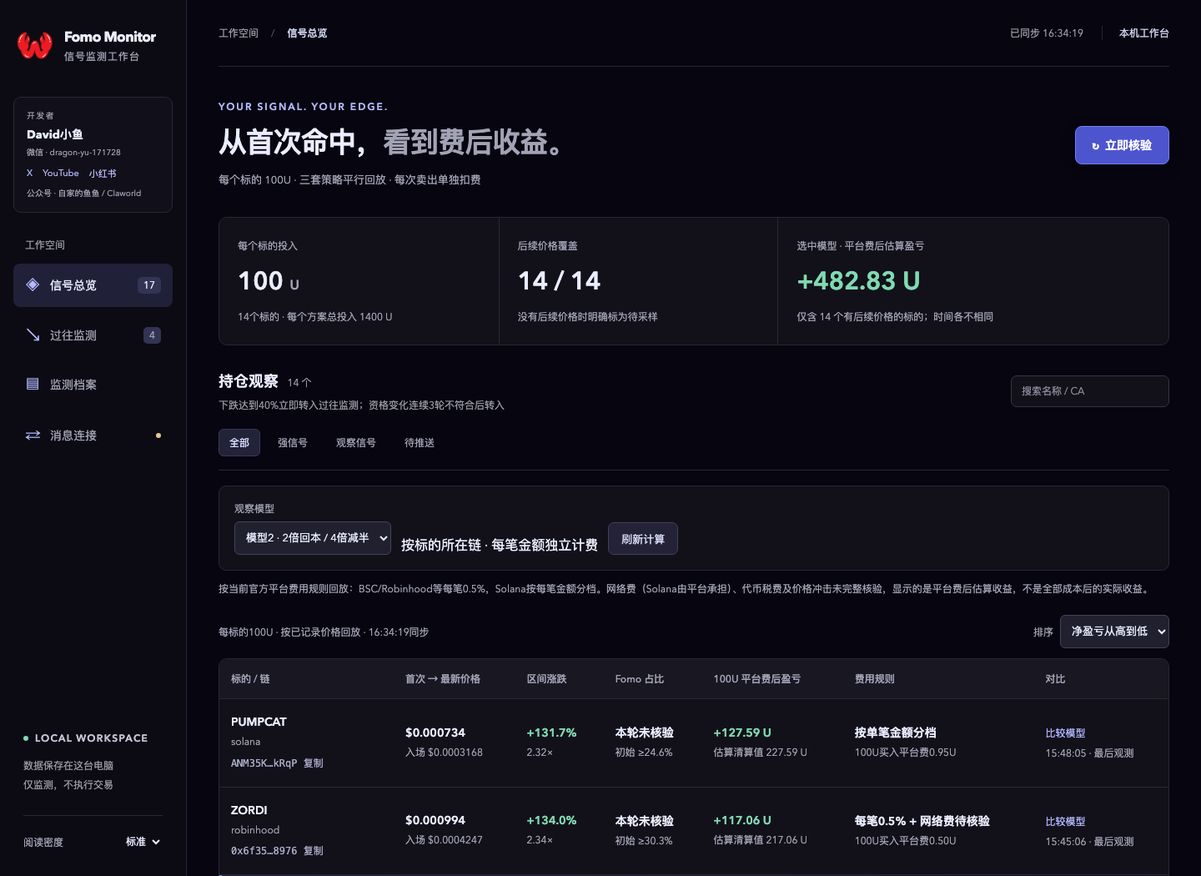
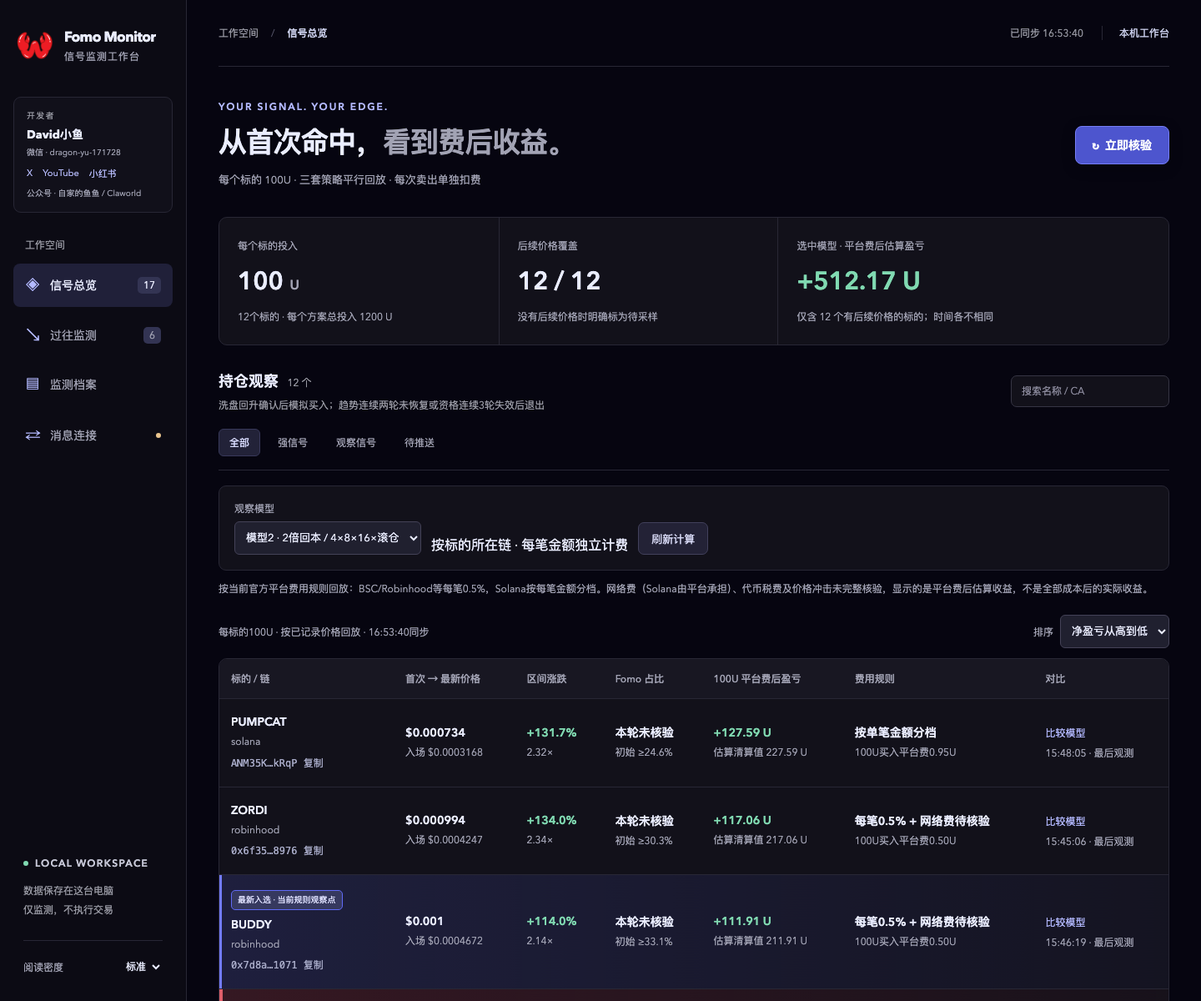
Adopt washout entry and rolling profit model

diff --git a/monitor/static/portfolio.js b/monitor/static/portfolio.js
@@ -1,6 +1,6 @@
 /* Retrospective comparison of recorded prices only. No trading actions. */
 let portfolioData=null,portfolioKey='',portfolioBusy=false,portfolioOpen=new Set();
-const modelNames={hold:'模型1 · Fomo 留存持有',recover2:'模型2 · 2倍回本 / 4倍减半',runner25:'模型3A · 2.5倍净收100U',runner25_110:'模型3B · 2.5倍净收110U'};
+const modelNames={hold:'模型1 · Fomo 留存持有',recover2:'模型2 · 2倍回本 / 4×8×16×滚仓',runner25:'模型3A · 2.5倍净收100U',runner25_110:'模型3B · 2.5倍净收110U'};
 const fmtU=n=>Number.isFinite(n)?n.toFixed(2)+' U':'—';
 const fmtPrice=n=>Number.isFinite(n)?'$'+n.toLocaleString('en-US',{maximumSignificantDigits:6}):'—';
 const fmtPct=n=>Number.isFinite(n)?(n>0?'+':'')+n.toFixed(1)+'%':'—';
@@ -67,22 +67,21 @@ function priceCurve(t){
  const root=el('div','history-chart');
  if(!prices.length)return root;
  const models=t.simulation?.models||[],best=models.reduce((winner,m)=>!winner||m.net_value>winner.net_value?m:winner,null);
- const clearReasons=new Set(['stop_loss','fomo_below_15','fomo_retention']);
- const actionNames={recover_principal:'2倍回本卖出',halve_at_4x:'4倍卖出剩余一半',runner_recover:'2.5倍目标回收',stop_loss:'跌幅20%强制止损',fomo_below_15:'Fomo低于15%清仓',fomo_retention:'Fomo留存条件清仓'};
+ const clearReasons=new Set(['trend_break','stop_loss','fomo_below_15','fomo_retention']);
+ const actionNames={recover_principal:'2倍回本卖出',halve_at_multiple:'倍数阶梯卖出剩余一半',runner_recover:'2.5倍目标回收',trend_break:'上升趋势确认失效清仓',stop_loss:'旧规则止损清仓',fomo_below_15:'Fomo低于15%清仓',fomo_retention:'Fomo留存条件清仓'};
  const markers=[];
  if(best){
   for(const tx of best.trades||[]){
    const kind=tx.type==='buy'?'buy':clearReasons.has(tx.reason)?'clear':'sell';
-   markers.push({kind,time:tx.observed_at||tx.time,price:tx.price,title:tx.type==='buy'?'首次模拟买入':actionNames[tx.reason]||'分批模拟卖出',tx});
+   const title=tx.reason==='halve_at_multiple'?`${tx.target_multiple}倍卖出剩余一半`:tx.type==='buy'?'洗盘回升确认买入':actionNames[tx.reason]||'分批模拟卖出';markers.push({kind,time:tx.observed_at||tx.time,price:tx.price,title,tx});
   }
  }
  if(t.archive?.archived_at)markers.push({kind:'archive',time:t.archive.archived_at,price:Number.isFinite(t.archive.trigger_price)?t.archive.trigger_price:t.latest.price,title:'退出监测'});
- const markerPrices=markers.map(m=>m.price).filter(Number.isFinite),low=Math.min(...prices,...markerPrices,t.entry.price*.80),high=Math.max(...prices,...markerPrices,t.entry.price),span=high-low||high*.01||1;
+ const markerPrices=markers.map(m=>m.price).filter(Number.isFinite),low=Math.min(...prices,...markerPrices),high=Math.max(...prices,...markerPrices,t.entry.price),span=high-low||high*.01||1;
  const sampleTimes=samples.map(s=>new Date(s.observed_at).getTime()),start=Math.min(...sampleTimes),end=Math.max(...sampleTimes),timeSpan=end-start;
  const xTime=time=>{const ms=new Date(time).getTime();return p+(w-p*2)*(timeSpan&&Number.isFinite(ms)?Math.max(0,Math.min(1,(ms-start)/timeSpan)):.5);};
  const x=(s,i)=>timeSpan?xTime(s.observed_at):p+(w-p*2)*(samples.length===1?.5:i/(samples.length-1)),y=v=>p+(h-p*2)*(high-v)/span;
  const svg=document.createElementNS('http://www.w3.org/2000/svg','svg');svg.setAttribute('viewBox',`0 0 ${w} ${h}`);svg.setAttribute('role','group');svg.setAttribute('aria-label',t.name+' 历史价格曲线与交易节点');
- const stop=document.createElementNS(svg.namespaceURI,'line');for(const [k,v] of Object.entries({x1:p,x2:w-p,y1:y(t.entry.price*.80),y2:y(t.entry.price*.80)}))stop.setAttribute(k,v);stop.setAttribute('class','stop-line');svg.append(stop);
  const path=document.createElementNS(svg.namespaceURI,'polyline');path.setAttribute('points',samples.map((s,i)=>x(s,i)+','+y(s.price)).join(' '));path.setAttribute('class','price-line');svg.append(path);
  const note=el('div','marker-note');note.hidden=true;
  const showMarker=m=>{
@@ -105,7 +104,7 @@ function renderHistory(){
  if(!rows.length){root.append(el('div','empty','暂无退出主清单的标的'));return;}
  for(const t of rows){
   const card=el('article','history-card'),head=el('div','history-head'),identity=el('div');identity.append(el('h2','',t.name),el('p','',t.chain+' · '+t.ca));
-  const change=t.archive.trigger_change_percent;head.append(identity,el('span','history-reason',t.archive.kind==='price_stop'?'20%止损 '+fmtPct(change):'资格退出'));card.append(head,priceCurve(t));
+  const change=t.archive.trigger_change_percent,archiveLabel=t.archive.kind==='trend_break'?'趋势退出 '+fmtPct(change):t.archive.kind==='price_stop'?'旧止损 '+fmtPct(change):'资格退出';head.append(identity,el('span','history-reason',archiveLabel));card.append(head,priceCurve(t));
   const note=el('p','history-note',t.archive.reason+' · '+new Date(t.archive.archived_at).toLocaleString('zh-CN')+' · 记录与模拟数据均保留');card.append(note);
   const detail=el('details','history-detail');detail.append(el('summary','','查看完整模拟账本与观测记录'),tokenDetail(t));card.append(detail);root.append(card);
  }
@@ -117,7 +116,7 @@ function tokenDetail(t){
  for(const m of t.simulation.models){
   const card=el('section','model-box');card.append(el('h4','',modelNames[m.id]||m.id),el('strong',m.pnl>=0?'profit':'loss',signedU(m.pnl)));
   for(const [label,value] of [['已回收净现金',fmtU(m.cash)],['剩余代币',m.remaining_percent.toFixed(2)+'%'],['剩余仓位市值',fmtU(m.remaining_gross_value)],['已扣平台费用',fmtU(m.paid_fees)],['剩余仓位预估平台费',fmtU(m.liquidation_fee)],['平台费后估算总值',fmtU(m.net_value)]]){const line=el('div','model-line');line.append(el('span','',label),el('b','',value));card.append(line);}
-  card.append(el('p','fee-explainer',({stop_loss:'已按20%强制止损线清仓退出',fomo_below_15:'Fomo 确认低于15%，已按当次观测价清仓全部',fomo_retention:'连续两次留存条件成立，已退出',principal_recovered_then_halved:'已回本，并在后续4倍观测减半',principal_recovered:'已净收回100U，等待后续4倍',principal_recovery_unreachable:'费用过高，当前仓位不足以净回本',runner_recover_100:'已净收100U，剩余仓位继续持有',runner_recover_110:'已净收110U，剩余仓位继续持有',runner_recovery_unreachable:'费用过高，当前仓位不足以完成回收',no_2x_observed:'尚未观测到2倍',no_2_5x_observed:'尚未观测到2.5倍',no_exit_trigger:'尚未满足退出条件'})[m.reason]||m.status));
+  card.append(el('p','fee-explainer',({trend_break:'连续两个确认轮次收低，趋势未恢复，已清仓',stop_loss:'旧规则止损结果已冻结保留',fomo_below_15:'Fomo 确认低于15%，已按当次观测价清仓全部',fomo_retention:'连续两次留存条件成立，已退出',principal_recovered_rolling:`已回本并完成${m.halving_count||0}次减半，下一档${m.next_halving_multiple||'—'}倍`,principal_recovered:'已净收回100U，等待后续4倍',principal_recovery_unreachable:'费用过高，当前仓位不足以净回本',runner_recover_100:'已净收100U，剩余仓位继续持有',runner_recover_110:'已净收110U，剩余仓位继续持有',runner_recovery_unreachable:'费用过高，当前仓位不足以完成回收',no_2x_observed:'尚未观测到2倍',no_2_5x_observed:'尚未观测到2.5倍',no_exit_trigger:'尚未满足退出条件'})[m.reason]||m.status));
   const trades=el('details');trades.append(el('summary','', '逐笔模拟交易 · '+m.trades.length+' 笔'));
   for(const tx of m.trades){const p=el('div','trade-item');p.textContent=(tx.type==='buy'?'买入':tx.type==='sell'?'卖出':tx.type)+' · '+tx.time+'\n价格 '+fmtPrice(tx.price)+' / 平台费 '+fmtU(tx.fee)+'（'+(tx.effective_fee_rate*100).toFixed(3)+'%）'+' / 净额 '+fmtU(tx.net);trades.append(p);}card.append(trades);grid.append(card);
  }

diff --git a/monitor/static/index.html b/monitor/static/index.html
@@ -13,7 +13,7 @@
 <div class="page-heading"><div><div class="eyebrow">YOUR SIGNAL. YOUR EDGE.</div><h1>从首次命中，<span>看到费后收益。</span></h1><p>每个标的 100U · 三套策略平行回放 · 每次卖出单独扣费</p></div><button id="refresh" class="primary refresh-button">↻&nbsp; 立即核验</button></div>
 <section class="portfolio-summary"><article><label>每个标的投入</label><strong>100 <small>U</small></strong><p id="portfolioInvested">等待载入基线</p></article><article><label>后续价格覆盖</label><strong id="portfolioCoverage">—</strong><p>没有后续价格时明确标为待采样</p></article><article><label>选中模型 · 平台费后估算盈亏</label><strong id="portfolioPnl">—</strong><p id="portfolioScope">不含仅有入场样本的标的</p></article></section>
 <div class="metrics"><article><span class="metric-label">本地已记录命中</span><strong id="hitCount">—</strong><small>最近 100 条事件中的新信号</small></article><article><span class="metric-label">等待推送</span><strong id="pending">—</strong><small><span id="sent">0</span> 条已完成全部通道推送</small></article><article class="channel-metric"><span class="metric-label">消息通道</span><strong id="deliveryStatus">等待配置</strong><small id="deliveryDetail">飞书与 Telegram 可同时推送</small><button class="text-button" data-view="connect">管理连接 ↗</button></article></div>
-<div class="overview-grid"><div class="signal-area"><div class="section-head"><div><h2>持仓观察 <span id="portfolioCount"></span></h2><p>相对模拟买入价下跌20%立即止损；资格变化连续3轮不符合后转入</p></div><input id="search" type="search" aria-label="搜索名称或合约" placeholder="搜索名称 / CA"></div><div class="filter-tabs" role="group" aria-label="筛选信号"><button class="selected" data-filter="all">全部</button><button data-filter="strong">强信号</button><button data-filter="watch">观察信号</button><button data-filter="pending">待推送</button></div><section class="model-controls"><label>观察模型<select id="modelSelect"><option value="hold">模型1 · Fomo 留存持有</option><option value="recover2" selected>模型2 · 2倍回本 / 4倍减半</option><option value="runner25">模型3A · 2.5倍净收100U</option><option value="runner25_110">模型3B · 2.5倍净收110U</option></select></label><span>按标的所在链 · 每笔金额独立计费</span><input id="buyFee" value="6" type="hidden"><input id="sellFee" value="6" type="hidden"><button id="recalculate" class="secondary">刷新计算</button></section>
+<div class="overview-grid"><div class="signal-area"><div class="section-head"><div><h2>持仓观察 <span id="portfolioCount"></span></h2><p>洗盘回升确认后模拟买入；趋势连续两轮未恢复或资格连续3轮失效后退出</p></div><input id="search" type="search" aria-label="搜索名称或合约" placeholder="搜索名称 / CA"></div><div class="filter-tabs" role="group" aria-label="筛选信号"><button class="selected" data-filter="all">全部</button><button data-filter="strong">强信号</button><button data-filter="watch">观察信号</button><button data-filter="pending">待推送</button></div><section class="model-controls"><label>观察模型<select id="modelSelect"><option value="hold">模型1 · Fomo 留存持有</option><option value="recover2" selected>模型2 · 2倍回本 / 4×8×16×滚仓</option><option value="runner25">模型3A · 2.5倍净收100U</option><option value="runner25_110">模型3B · 2.5倍净收110U</option></select></label><span>按标的所在链 · 每笔金额独立计费</span><input id="buyFee" value="6" type="hidden"><input id="sellFee" value="6" type="hidden"><button id="recalculate" class="secondary">刷新计算</button></section>
 <p class="fee-explainer">按当前官方平台费用规则回放：BSC/Robinhood等每笔0.5%，Solana按每笔金额分档。网络费（Solana由平台承担）、代币税费及价格冲击未完整核验，显示的是平台费后估算收益，不是全部成本后的实际收益。</p>
 <div class="portfolio-toolbar"><span id="portfolioStatus">正在读取观测账本…</span><label>排序 <select id="portfolioSort"><option value="profit_desc">净盈亏从高到低</option><option value="profit_asc">净盈亏从低到高</option><option value="recent">最新采样</option><option value="waiting">待采样优先</option></select></label></div>
 <div id="portfolioTable"></div><p class="fee-explainer">点击一行「比较模型」查看四个分支的收益、剩余仓位和逐笔买卖费用。模型3的两个分支是对照方案，不重复计入投入。</p>

diff --git a/monitor/simulation.py b/monitor/simulation.py
@@ -17,7 +17,6 @@ from typing import Any, Dict, List, Optional, Tuple
 
 _RATIO_EXIT = 15.0
 _HOLDER_RETENTION = 0.20
-_STOP_MULTIPLE = 0.80
 _RECOVER_MULTIPLE = 2.0
 _RUNNER_MULTIPLE = 2.5
 _HALF_MULTIPLE = 4.0
@@ -228,11 +227,15 @@ class _Ledger:
         self._peak_holders: Optional[float] = None
         self._holder_streak = 0
         self._ratio_streak = 0
+        self._previous_confirmed_price: Optional[float] = None
+        self._lower_price_streak = 0
 
         # Recover2 state.
         self._principal_recovered = False
         self._recovery_index: Optional[int] = None
         self._half_sold = False
+        self._halving_count = 0
+        self._next_halving_multiple = _HALF_MULTIPLE
 
         # Drawdown starts at the post-buy, hypothetical-liquidation value.
         initial_net = self._net_value(entry.price)
@@ -253,16 +256,19 @@ class _Ledger:
             self.trigger_observed_at = sample.observed_at
             self.trigger_price = sample.price
             return True
-        if sample.price > self.entry_price * _STOP_MULTIPLE:
-            return False
-        if self.units > 0:
-            self._sell(sample, self.units, "stop_loss")
-        self.stop_triggered = True
-        self.terminal = True
-        self.terminal_reason = "stop_loss"
-        self.trigger_observed_at = sample.observed_at
-        self.trigger_price = sample.price
-        return True
+        if sample.confirmation:
+            if self._previous_confirmed_price is not None:
+                self._lower_price_streak = self._lower_price_streak + 1 if sample.price < self._previous_confirmed_price else 0
+            self._previous_confirmed_price = sample.price
+            if self._lower_price_streak >= 2:
+                if self.units > 0:
+                    self._sell(sample, self.units, "trend_break")
+                self.terminal = True
+                self.terminal_reason = "trend_break"
+                self.trigger_observed_at = sample.observed_at
+                self.trigger_price = sample.price
+                return True
+        return False
 
     def _sell(self, sample: _Sample, tokens: float, reason: str) -> float:
         if tokens <= 0 or self.units <= 0:
@@ -395,10 +401,14 @@ class _Ledger:
 
         # Even if the recovery observation leaps directly beyond 4x, the 4x
         # sale is required on a later observed sample.
-        if not self._half_sold and self._recovery_index is not None:
-            if index > self._recovery_index and multiple >= _HALF_MULTIPLE:
-                self._sell_fraction_of_remaining(sample, 0.5, "halve_at_4x")
+        if self._recovery_index is not None and index > self._recovery_index:
+            if multiple >= self._next_halving_multiple:
+                target=self._next_halving_multiple
+                self._sell_fraction_of_remaining(sample, 0.5, "halve_at_multiple")
+                self.trades[-1]["target_multiple"]=target
+                self._halving_count += 1
                 self._half_sold = True
+                self._next_halving_multiple *= 2
 
     def _process_runner(self, sample: _Sample) -> None:
         if self.terminal or self._stop_if_needed(sample):
@@ -435,9 +445,9 @@ class _Ledger:
             self._max_drawdown / self._peak_net_value * 100.0
             if self._peak_net_value > 0 else 0.0
         )
-        if self.stop_triggered:
-            status = "stopped"
-            reason = "stop_loss"
+        if self.terminal_reason == "trend_break":
+            status = "exited"
+            reason = "trend_break"
         elif self.terminal_reason == "fomo_below_15":
             status = "exited"
             reason = "fomo_below_15"
@@ -447,7 +457,7 @@ class _Ledger:
         elif self.kind == "recover2":
             if self._half_sold:
                 status = "running"
-                reason = "principal_recovered_then_halved"
+                reason = "principal_recovered_rolling"
             elif self._principal_recovered:
                 status = "running"
                 reason = "principal_recovered"
@@ -515,6 +525,8 @@ class _Ledger:
             result.update({
                 "principal_recovered": self._principal_recovered,
                 "half_sold": self._half_sold,
+                "halving_count": self._halving_count,
+                "next_halving_multiple": self._next_halving_multiple,
                 "target_net": self.principal,
             })
         elif self.kind == "runner":

diff --git a/monitor/test_simulation.py b/monitor/test_simulation.py
@@ -57,20 +57,10 @@ class SimulationTests(unittest.TestCase):
                     sample("2026-09-06T00:01:00+00:00", gross / initial_units),
                 ], fee_schedule="solana")
                 model = self.model(result, "hold")
-                if gross / initial_units <= entry_price * 0.8:
-                    trade = model["trades"][1]
-                    self.assertAlmostEqual(trade["gross"], gross)
-                    self.assertAlmostEqual(trade["fee"], expected_fee)
-                    self.assertAlmostEqual(trade["net"], gross - expected_fee)
-                    self.assertAlmostEqual(
-                        trade["effective_fee_rate"], expected_fee / gross
-                    )
-                else:
-                    self.assertAlmostEqual(model["remaining_gross_value"], gross)
-                    self.assertAlmostEqual(
-                        model["hypothetical_remaining_liquidation_fee"],
-                        expected_fee,
-                    )
+                self.assertAlmostEqual(model["remaining_gross_value"], gross)
+                self.assertAlmostEqual(
+                    model["hypothetical_remaining_liquidation_fee"], expected_fee,
+                )
 
         tiny = engine_simulate(
             [sample("2026-09-06T00:00:00+00:00", 10.0)],
@@ -166,6 +156,20 @@ class SimulationTests(unittest.TestCase):
         self.assertEqual(len(staged_model["trades"]), 3)
         self.assertTrue(staged_model["half_sold"])
 
+    def test_recover2_halves_again_at_each_observed_doubling(self):
+        result = simulate([
+            sample("2026-09-06T00:00:00+00:00", 10.0),
+            sample("2026-09-06T00:01:00+00:00", 20.0),
+            sample("2026-09-06T00:02:00+00:00", 40.0),
+            sample("2026-09-06T00:03:00+00:00", 80.0),
+            sample("2026-09-06T00:04:00+00:00", 160.0),
+        ])
+        model = self.model(result, "recover2")
+        sells=[t for t in model["trades"] if t["type"]=="sell"]
+        self.assertEqual([t.get("target_multiple") for t in sells[1:]],[4.0,8.0,16.0])
+        self.assertEqual(model["halving_count"],3)
+        self.assertEqual(model["next_halving_multiple"],32.0)
+
     def test_runner_100_and_110_fractions(self):
         result = simulate([
             sample("2026-09-06T00:00:00+00:00", 10.0),
@@ -218,24 +222,28 @@ class SimulationTests(unittest.TestCase):
         self.assertEqual(model["status"], "exited")
         self.assertAlmostEqual(model["trades"][1]["price"], 14.0)
 
-    def test_twenty_percent_stop_is_inclusive_and_terminal(self):
+    def test_two_confirmed_lower_prices_exit_trend_models(self):
         result = simulate([
             sample("2026-09-06T00:00:00+00:00", 10.0),
-            sample("2026-09-06T00:01:00+00:00", 8.1),
-            sample("2026-09-06T00:02:00+00:00", 8.0),
-            sample("2026-09-06T00:03:00+00:00", 40.0),
+            sample("2026-09-06T00:01:00+00:00", 6.0),
+            sample("2026-09-06T00:02:00+00:00", 7.0),
+            sample("2026-09-06T00:03:00+00:00", 6.5),
+            sample("2026-09-06T00:04:00+00:00", 6.0),
+            sample("2026-09-06T00:05:00+00:00", 40.0),
         ])
         for model in result["models"]:
-            self.assertEqual(model["status"], "stopped")
+            self.assertEqual(model["status"], "exited")
             self.assertTrue(model["terminal"])
             self.assertEqual(len(model["trades"]), 2)
-            self.assertAlmostEqual(model["trades"][1]["price"], 8.0)
+            self.assertEqual(model["trades"][1]["reason"], "trend_break")
+            self.assertAlmostEqual(model["trades"][1]["price"], 6.0)
             self.assertAlmostEqual(model["remaining_units"], 0.0)
-        at_boundary = simulate([
+        recovered = simulate([
             sample("2026-09-06T00:00:00+00:00", 10.0),
-            sample("2026-09-06T00:01:00+00:00", 8.1),
+            sample("2026-09-06T00:01:00+00:00", 5.0),
+            sample("2026-09-06T00:02:00+00:00", 11.0),
         ])
-        self.assertNotEqual(self.model(at_boundary, "hold")["status"], "stopped")
+        self.assertFalse(self.model(recovered, "hold")["terminal"])
 
     def test_confirmed_fomo_below_fifteen_exits_every_model_immediately(self):
         result = simulate([

diff --git a/monitor/portfolio.py b/monitor/portfolio.py
@@ -121,13 +121,15 @@ def watch_state(observations):
 
 def archive_state(meta, observations, watch):
     """Return the first terminal archive trigger while preserving every observation."""
-    stop_price=meta['price']*.80
-    breach=next((sample for sample in observations if sample['price']<=stop_price),None)
-    if breach:
-        decline=(breach['price']/meta['price']-1)*100
-        return {'archived':True,'reason':'相对首次合格价下跌达到20%',
-                'kind':'price_stop','archived_at':breach['observed_at'],
-                'trigger_price':breach['price'],'trigger_change_percent':decline}
+    confirmed=[sample for sample in observations if sample.get('confirmation')]
+    lower_streak=0
+    for previous,current in zip(confirmed,confirmed[1:]):
+        lower_streak=lower_streak+1 if current['price']<previous['price'] else 0
+        if lower_streak>=2:
+            decline=(current['price']/meta['price']-1)*100
+            return {'archived':True,'reason':'连续2个确认轮次收低，上升趋势未恢复',
+                    'kind':'trend_break','archived_at':current['observed_at'],
+                    'trigger_price':current['price'],'trigger_change_percent':decline}
     if watch['status']=='removed':
         return {'archived':True,'reason':watch['reason'] or '连续3轮不再符合筛选规则',
                 'kind':'eligibility','archived_at':observations[-1]['observed_at'],
@@ -151,6 +153,7 @@ def report(buy_fee=.06,sell_fee=.06,official=True):
     with connect() as db:
         tokens=[(r['id'],json.loads(r['metadata'])) for r in db.execute('SELECT * FROM tokens')]
         samples=[(r['token_id'],json.loads(r['payload'])) for r in db.execute('SELECT * FROM samples')]
+        archives={r['token_id']:json.loads(r['payload']) for r in db.execute('SELECT * FROM archives')}
     rows=[];history=[]
     for tid,meta in tokens:
         observations=sorted([p for key,p in samples if key==tid],key=lambda p:timestamp(p['observed_at'])[1])
@@ -158,7 +161,12 @@ def report(buy_fee=.06,sell_fee=.06,official=True):
         result=simulate(observations,principal=100,buy_fee=buy_fee,sell_fee=sell_fee,fee_schedule=profile['schedule'] if official else None)
         latest=observations[-1]
         watch=watch_state(observations)
-        archive=archive_state(meta,observations,watch)
+        archive_record=archives.get(tid)
+        archive={k:v for k,v in archive_record.items() if k!='simulation'} if archive_record else archive_state(meta,observations,watch)
+        if archive['archived'] and not archive_record:
+            archive_record=dict(archive,simulation=result)
+            with connect() as db:db.execute('INSERT OR IGNORE INTO archives VALUES (?,?)',(tid,json.dumps(archive_record,ensure_ascii=False)))
+        if archive_record and archive_record.get('simulation'):result=archive_record['simulation']
         fomo_exit=fomo_exit_state(observations)
         row={'id':tid,'name':meta['name'],'chain':meta['chain'],'ca':meta['ca'],'entry':meta,
                      'latest':latest,'awaiting_sample':len(observations)==1,'stale':time.time()-timestamp(latest['observed_at'])[1]>7200,

diff --git a/monitor/test_portfolio.py b/monitor/test_portfolio.py
@@ -42,16 +42,21 @@ class PortfolioTests(unittest.TestCase):
   self.assertEqual(portfolio.watch_state([point(1,False,'r1'),point(2,False,'r2'),point(3,False,'r3')])['status'],'removed')
   self.assertEqual(portfolio.watch_state([point(1,False,'r1'),point(2,True,'r2')])['ineligible_streak'],0)
 
- def test_twenty_percent_decline_moves_token_to_history_with_samples(self):
+ def test_two_confirmed_lower_rounds_move_token_to_history_with_samples(self):
   portfolio.register(self.base)
-  portfolio.add_sample(dict(self.base,observed_at='2026-09-05T02:00:00+08:00',price=.81,source='gmgn'))
+  portfolio.add_sample(dict(self.base,observed_at='2026-09-05T02:00:00+08:00',price=.81,source='gmgn',confirmation=True))
   self.assertEqual(len(portfolio.report()['tokens']),1)
-  portfolio.add_sample(dict(self.base,observed_at='2026-09-05T03:00:00+08:00',price=.80,source='gmgn'))
+  portfolio.add_sample(dict(self.base,observed_at='2026-09-05T04:00:00+08:00',price=.60,source='gmgn',confirmation=True))
   report=portfolio.report()
   self.assertEqual(report['tokens'],[])
   self.assertEqual(len(report['history']),1)
-  self.assertEqual(report['history'][0]['archive']['kind'],'price_stop')
+  self.assertEqual(report['history'][0]['archive']['kind'],'trend_break')
   self.assertEqual(len(report['history'][0]['samples']),3)
+  archived_value=report['history'][0]['simulation']['models'][0]['net_value']
+  portfolio.add_sample(dict(self.base,observed_at='2026-09-05T06:00:00+08:00',price=3,source='gmgn',confirmation=True))
+  frozen=portfolio.report()['history'][0]
+  self.assertEqual(frozen['simulation']['models'][0]['net_value'],archived_value)
+  self.assertEqual(len(frozen['samples']),4)
 
  def test_confirmed_fomo_exit_state_is_persistent(self):
   points=[dict(observed_at='2026-09-05T01:00:00+08:00',price=1,source='windvane',fomo_ratio_lower=14,fomo_ratio_upper=16),

diff --git a/monitor/store.py b/monitor/store.py
@@ -20,6 +20,8 @@ def connect():
     CREATE TABLE IF NOT EXISTS tokens (id TEXT PRIMARY KEY, metadata TEXT NOT NULL);
     CREATE TABLE IF NOT EXISTS samples (token_id TEXT NOT NULL, observed_at TEXT NOT NULL,
       payload TEXT NOT NULL, PRIMARY KEY(token_id,observed_at));
+    CREATE TABLE IF NOT EXISTS archives (
+      token_id TEXT PRIMARY KEY, payload TEXT NOT NULL);
     CREATE TABLE IF NOT EXISTS deliveries (
       event_id TEXT NOT NULL, channel TEXT NOT NULL, status TEXT NOT NULL DEFAULT 'pending',
       attempts INTEGER NOT NULL DEFAULT 0, next_attempt REAL NOT NULL DEFAULT 0,

diff --git a/monitor/PORTFOLIO.md b/monitor/PORTFOLIO.md
@@ -6,7 +6,7 @@
 
 每轮对已登记代币刷新真实价格（即使不再满足初筛市值也需跟踪），使用 `python3 monitor/bridge.py sample 文件.json` 写入：chain、ca、observed_at、price、source（如windvane、fomo、gmgn）、fomo_ratio_lower/upper（未核验则不填）、fomo_holders（未核验则不填）、confirmation:false（手动/短周期采样），price_estimated:false，以及note。定时两小时核验才可confirmation:true，程序还会限制两次确认至少间隔两小时。不要携带上一轮Fomo数据充当新核验。仅观察到下界≥14.5%不能确认低于15%；退出需要upper<15或人数低于峰值20%。
 
-全部已登记标的可通过本机 GET http://127.0.0.1:8765/api/portfolio 读取；或在monitor目录调用portfolio.report()。相对模拟买入价下跌达到20%的标的立即记终值、模拟清算并转入“过往监测”，不等待3轮；全部样本、账本和曲线继续保留。模型1独立退出不影响其他模型仍未清仓的价格采样。
+全部已登记标的可通过本机 GET http://127.0.0.1:8765/api/portfolio 读取；或在monitor目录调用portfolio.report()。不再设置固定20%或50%价格止损。连续两个有效定时确认轮次相对前一确认价收低，表示趋势破坏后仍未恢复，按第二个确认价模拟清仓并转入“过往监测”；全部样本、账本和曲线继续保留。已归档的旧止损记录保持原样，不因规则更新重新进入主清单。
 
 无法获取新价格时不要制造sample，报告哪些标的待采样及原因。页面保留真实最后观测时间，初始一笔样本标为等待后续采样。
 
@@ -14,9 +14,9 @@
 
 每轮筛选同时为每个仍在主清单中的标的写入一次资格判断。sample 增加 `watch_round`（本轮唯一标识）、`watch_eligible`（布尔值）和 `eligibility_reason`（说明仍符合或不符合哪项规则）。只有同一轮的一次判断计数；价格补采、手动刷新或两小时生命周期样本不能重复充当新一轮。只有取得足以判断年龄、市值和 Fomo 下界的本轮证据才写资格判断；登录、配额、来源故障或关键数据缺失时不写这些字段，也不推进移出轮次。
 
-新候选的第一次合格观测只进入待确认，不登记基线、不模拟买入、不发送正式命中。下一独立扫描仍满足三项筛选条件，且实测价格不高于首次候选价时，才以第二次价格登记基线和模拟买入；连续三轮价格都高于首次候选价则放弃该候选。本规则用于减少追高，不代表能确认真正最高点。候选状态保存在自动化任务上下文和本机数据目录，不能用同轮重复查询完成确认。
+新候选的第一次合格观测只进入待确认。下一独立扫描必须仍合格且价格低于或等于首次候选价，记录为洗盘回踩；再下一独立扫描必须仍合格、价格高于回踩价且不超过首次候选价的110%，才以该回升价登记基线并正式推送。任一阶段条件失效则放弃或重新开始候选观察。本规则用于减少追高，不代表能确认真正最高点。候选状态保存在自动化任务上下文和本机数据目录，不能用同轮重复查询完成确认。
 
-最新首次命中的标的在主清单高亮为“最新入选 · 当前规则观察点”，只表示它是最新通过规则的观测，不是确定买入建议。首次 `watch_eligible:false` 标记“可能移出 1/3轮”；连续第二轮仍不符合显示 2/3轮；连续第三轮仍不符合后转入“过往监测”。任意一轮重新符合会把计数清零。价格跌幅达到20%则立即转入，不使用3轮等待。转入只停止主清单展示与重点筛选，不删除 SQLite 样本、事件或 Markdown 档案。
+最新首次命中的标的在主清单高亮为“最新入选 · 当前规则观察点”，只表示它是最新通过洗盘回升确认的观测，不是确定买入建议。首次 `watch_eligible:false` 标记“可能移出 1/3轮”；连续第二轮仍不符合显示 2/3轮；连续第三轮仍不符合后转入“过往监测”。任意一轮重新符合会把计数清零。转入只停止主清单展示与重点筛选，不删除 SQLite 样本、事件或 Markdown 档案。
 
 手续费采用下方当前逐链平台费规则，其他未核验成本单列；费用计算由simulation.py负责，采样任务不手写或覆盖引擎账本。每次卖出逐笔扣费；剩余仓位假设清算费用单独显示，不混为已付费用。三个模型为平行比较，不能把四个分支的本金或收益相加。
 

diff --git a/monitor/automation/fomo-monitor-prompt.md b/monitor/automation/fomo-monitor-prompt.md
@@ -4,7 +4,7 @@
 
 扫描 GMGN 支持的 Robinhood、BSC、Solana、Base、Ethereum 热搜。候选必须创建 1–7 天、当前市值 20万–50万美元，并通过 Windvane 按完整 CA 核验。Fomo 持仓占比下界至少 15% 才命中；15%–20% 为观察信号，20% 以上为强信号。不得用 Top10、DS 或其他百分比替代 Fomo 占比。
 
-第一次发现满足基础条件的新候选时只保存待确认，不登记 baseline、不模拟买入、不发送正式命中。下一独立扫描仍满足年龄、市值与 Fomo 条件，且实测价格不高于首次候选价时，才用 `bridge.py baseline` 以第二次价格登记模拟买点，并用 `bridge.py event` 入队正式命中；连续三轮价格都高于首次候选价则放弃候选。候选状态持久化到本机数据目录，不能用同轮重复查询完成确认。对已有标的刷新真实价格，并按两小时间隔做生命周期确认。达到 2、3、5、10 倍、从采样高点回撤 25%、相对模拟买入价下跌达到20%，或模拟策略触发时入队提醒。跌幅达到20%立即模拟清仓、记录终值并停止重点跟踪，转入过往监测，不等待3轮；历史样本与档案全部保留。没有新事件且状态未变化时保持静默。
+第一次发现满足基础条件的新候选时只保存待确认，不登记 baseline、不模拟买入、不发送正式命中。下一独立扫描仍合格且实测价格不高于首次候选价时，记录为洗盘回踩；第三个独立扫描仍合格、价格高于回踩价且不超过首次候选价110%时，才用 `bridge.py baseline` 以回升价登记模拟买点，并用 `bridge.py event` 入队正式命中。任一阶段条件失效则放弃或重新开始候选观察；候选状态持久化到本机数据目录，不能用同轮重复查询完成确认。对已有标的刷新真实价格，并按两小时间隔做生命周期确认。达到 2、3、5、10 倍、从采样高点回撤 25%，或模拟策略触发时入队提醒。单次20%或50%回撤不清仓；连续两个有效定时确认轮次相对前一确认价收低，视为上升趋势未恢复，按第二个确认价模拟清仓并转入过往监测。历史样本与档案全部保留。没有新事件且状态未变化时保持静默。
 
 每一轮还要依据 `PORTFOLIO.md` 为主清单内每个标的记录一次 `watch_round`、`watch_eligible` 和 `eligibility_reason`。不再符合年龄、市值或 Fomo 下界规则的标的先标记可能移出；连续3个不同筛选轮次仍不符合后才从主清单隐藏，期间重新符合立即清零。只有本轮三项资格数据完整可核验时才写这些字段；登录、配额、来源故障或关键数据缺失不算失败轮次。不得删除历史样本或档案。
 

diff --git a/CHANGELOG.md b/CHANGELOG.md
@@ -1,5 +1,12 @@
 # 更新日志
 
+## 0.5.0 - 2026-09-06
+
+- 恢复“洗盘回踩后重新上涨”才登记模拟买入的三轮入场确认，限制回升价不超过首次候选价10%。
+- 取消固定20%/50%价格止损；连续两个定时确认轮次继续收低时，按趋势失效清仓退出。
+- 回本模型在2倍费后收回100U，并在4倍、8倍、16倍及后续每次翻倍时卖出剩余仓位的一半。
+- 归档状态持久化，旧规则已经退出的项目不会因新规则重新进入主清单。
+
 ## 0.4.1 - 2026-09-06
 
 - 强制止损从相对模拟买入价下跌40%收紧为20%，历史模拟按首个触线样本重新回放。
